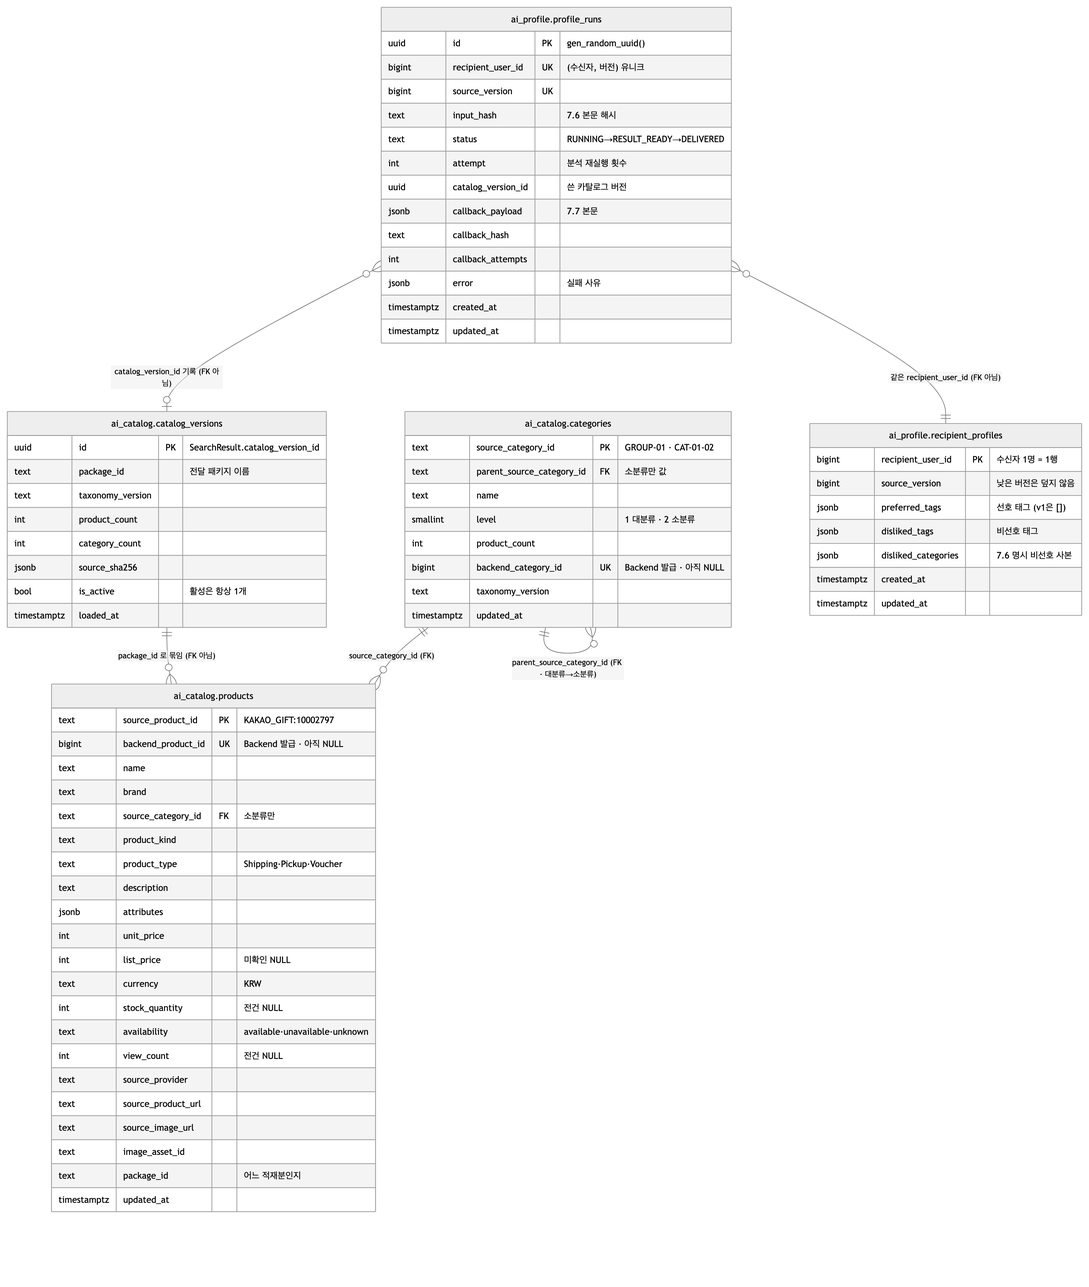
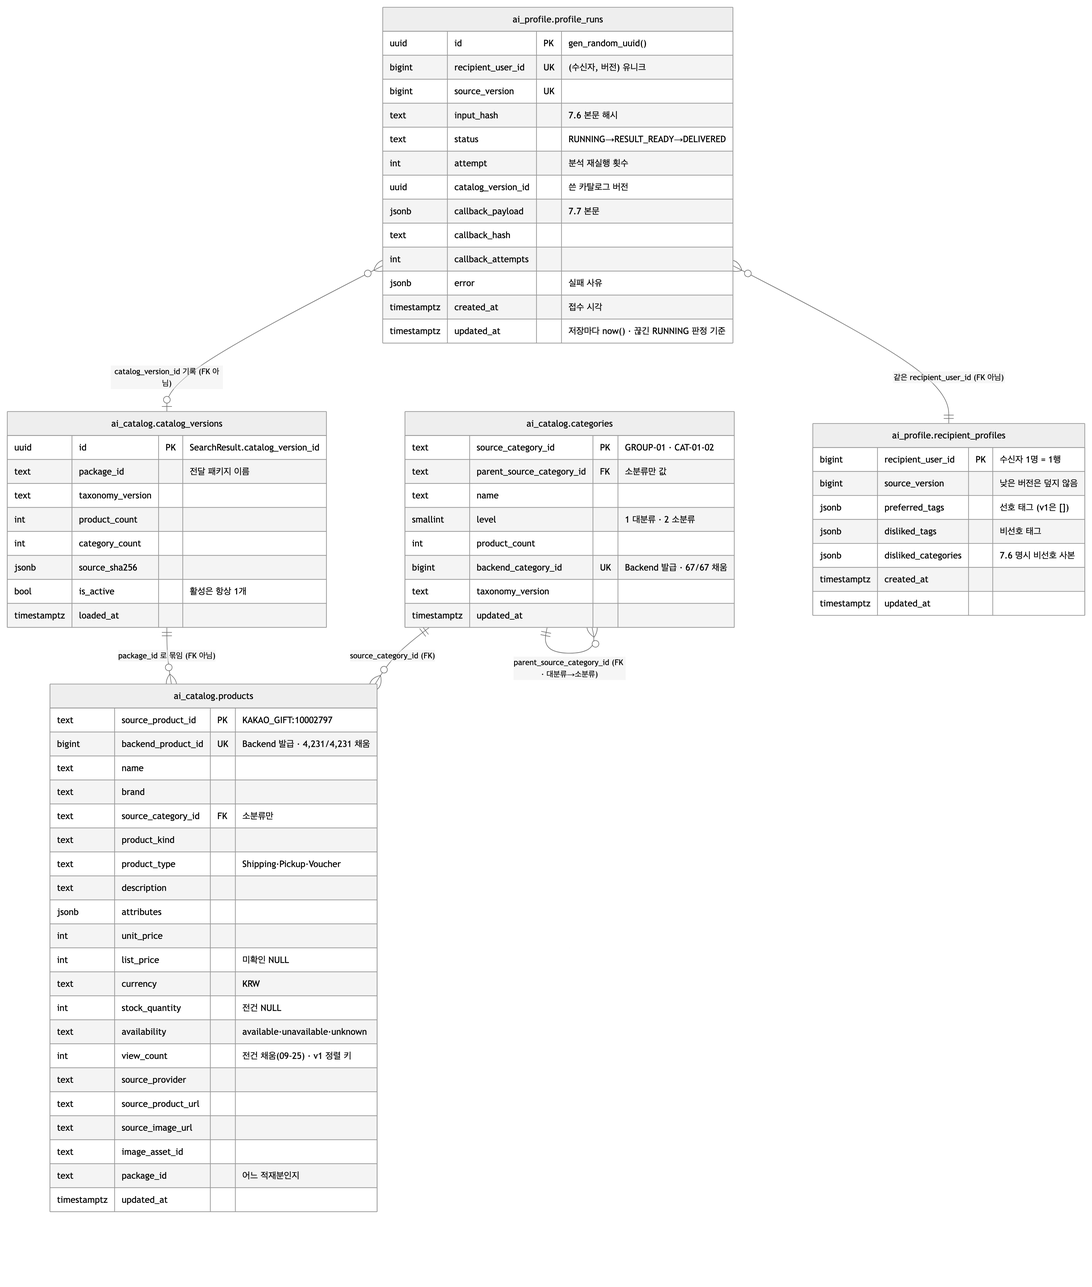
fix(profiling): ERD 점검 ①~⑤ — 0004 열 주석 정정 · updated_at 역할 · 09-25 회신 반영 누락
- 0004_profile_runs_comments: catalog_version_id 주석 ai_search → ai_catalog, updated_at 주석에
  중복 판정·시작 시 정리 기준(RUNNING_STALE_S) 명시. 동작 변경 없음, downgrade 왕복 확인
- DB_ERD.md: categories·products 표에 updated_at 행(①) · profile_runs.updated_at 역할(②) ·
  fig 01 backend_*_id/view_count "아직 NULL" → 채움, §8 채우기 행 정리(⑤) · v3 마이그레이션 0005
- 옛 파일-카탈로그 시험 행 14건(④)은 삭제 대기로 표시 — 삭제는 사용자가 직접 실행
- 통합 시험 +1: 두 열 주석 잠금 (156 passed, 2 skipped) · 문서_목록 §4 ⑤ 기록 · 지도 09-25 §5-6 번호

diff --git a/profiling/alembic/versions/0004_profile_runs_comments.py b/profiling/alembic/versions/0004_profile_runs_comments.py
@@ -1,0 +1,51 @@
+"""0004 — profile_runs 열 주석 정정 (ai_search → ai_catalog · updated_at 의 역할)
+
+Revision ID: 0004
+Revises: 0003
+Create Date: 2026-09-27
+
+동작 변경 없음 — 열 주석(COMMENT ON COLUMN) 두 개만 바꾼다.
+  catalog_version_id  0002 가 쓰일 때 카탈로그는 파일이었고 주석은 팀원 스키마 이름(ai_search)을 가리켰다.
+                      지금 들어가는 값은 ai_catalog.catalog_versions.id (0003) 다. FK 는 여전히 걸지 않는다(감사 기록).
+  updated_at          09-25 접수 단계 중복 판정(intake.decide)과 시작 시 정리(stores.recover_stale_runs)가
+                      이 열을 기준으로 "끊긴 RUNNING"을 가른다(RUNNING_STALE_S). 주석에 그 역할을 남긴다.
+"""
+
+from __future__ import annotations
+
+import sqlalchemy as sa
+from sqlalchemy.dialects import postgresql as pg
+
+from alembic import op
+
+revision = "0004"
+down_revision = "0003"
+branch_labels = None
+depends_on = None
+
+SCHEMA = "ai_profile"
+TABLE = "profile_runs"
+
+CATALOG_OLD = "검색에 쓴 카탈로그 버전 (ai_search.catalog_versions.id) — 감사용, FK 없음 (§16.1). 파일 카탈로그는 고정 UUID"
+CATALOG_NEW = "검색에 쓴 카탈로그 버전 (ai_catalog.catalog_versions.id) — 감사용, FK 없음 (§16.1). 파일 카탈로그는 고정 UUID"
+UPDATED_OLD = "상태가 바뀔 때마다 갱신"
+UPDATED_NEW = ("저장할 때마다 now(). RUNNING 이 RUNNING_STALE_S 보다 오래되면 끊긴 실행으로 본다 — "
+               "접수 단계 중복 판정·시작 시 정리(FAILED)의 기준")
+
+
+def _set_comments(catalog: str, updated: str, *, catalog_was: str, updated_was: str) -> None:
+    op.alter_column(TABLE, "catalog_version_id", schema=SCHEMA,
+                    existing_type=pg.UUID(as_uuid=True), existing_nullable=True,
+                    comment=catalog, existing_comment=catalog_was)
+    op.alter_column(TABLE, "updated_at", schema=SCHEMA,
+                    existing_type=sa.DateTime(timezone=True), existing_nullable=False,
+                    existing_server_default=sa.text("now()"),
+                    comment=updated, existing_comment=updated_was)
+
+
+def upgrade() -> None:
+    _set_comments(CATALOG_NEW, UPDATED_NEW, catalog_was=CATALOG_OLD, updated_was=UPDATED_OLD)
+
+
+def downgrade() -> None:
+    _set_comments(CATALOG_OLD, UPDATED_OLD, catalog_was=CATALOG_NEW, updated_was=UPDATED_NEW)

diff --git a/profiling/tests/integration/test_db_stores.py b/profiling/tests/integration/test_db_stores.py
@@ -285,3 +285,16 @@ def test_run_lock_does_not_leave_transaction_open(engine) -> None:
                 "select count(*) from pg_stat_activity "
                 "where state = 'idle in transaction' and query like '%pg_try_advisory_lock%'")).scalar_one()
     assert open_tx == 0
+
+
+def test_profile_runs_column_comments_match_0004(engine) -> None:
+    """0004 — 열 주석이 실제 값(ai_catalog)과 updated_at 의 역할을 말하는지. 09-27 점검에서 한 번 어긋났던 것이라 잠근다."""
+    with engine.connect() as c:
+        comments = dict(c.execute(sa.text("""
+            select column_name, col_description('ai_profile.profile_runs'::regclass, ordinal_position)
+            from information_schema.columns
+            where table_schema = 'ai_profile' and table_name = 'profile_runs'
+              and column_name in ('catalog_version_id', 'updated_at')""")).all())
+    assert "ai_catalog.catalog_versions.id" in comments["catalog_version_id"]
+    assert "ai_search" not in comments["catalog_version_id"]
+    assert "RUNNING_STALE_S" in comments["updated_at"]

diff --git a/profiling/docs/DB_ERD.md b/profiling/docs/DB_ERD.md
@@ -1,13 +1,13 @@
 # AI DB 표 구조 (ERD) — 2026-09-25
 
-AI가 **소유한** 표가 무엇이고 서로 어떻게 이어지는지. 정본은 `alembic/versions/`의 마이그레이션 세 개이고, 이 문서는 그것을 그림과 표로 옮긴 것이다. 코드가 이 표를 어떻게 쓰는지는 [DB_전환_설명.md](DB_전환_설명.md)와 [시퀀스_전체.md](시퀀스_전체.md)에 있다.
+AI가 **소유한** 표가 무엇이고 서로 어떻게 이어지는지. 정본은 `alembic/versions/`의 마이그레이션 네 개이고, 이 문서는 그것을 그림과 표로 옮긴 것이다. 코드가 이 표를 어떻게 쓰는지는 [DB_전환_설명.md](DB_전환_설명.md)와 [시퀀스_전체.md](시퀀스_전체.md)에 있다.
 
 | | |
 |---|---|
 | DB | PostgreSQL 16 + pgvector (`pgvector/pgvector:pg16`) · 데이터베이스 `ai_chat` · 계정 `ai_user` |
 | 스키마 | `ai_profile`(프로파일링 2표) · `ai_catalog`(카탈로그 3표) · `ai_search`(팀원 검색기 1표, §7) |
-| 마이그레이션 | `0001` recipient_profiles · `0002` profile_runs · `0003` ai_catalog 3표 — `uv run alembic upgrade head` |
-| 행 수 | 2026-09-25 확인: 상품 4,231(Backend 번호·재고·조회수 전건 채움) · 카테고리 67(대분류 10·소분류 57) · 활성 카탈로그 버전 1. `ai_profile` 두 표는 로컬 시험 행뿐 |
+| 마이그레이션 | `0001` recipient_profiles · `0002` profile_runs · `0003` ai_catalog 3표 · `0004` profile_runs 열 주석 정정(동작 변경 없음) — `uv run alembic upgrade head` |
+| 행 수 | 2026-09-25 확인: 상품 4,231(Backend 번호·재고·조회수 전건 채움) · 카테고리 67(대분류 10·소분류 57) · 활성 카탈로그 버전 1. `ai_profile` 두 표는 로컬 시험 행뿐(옛 파일-카탈로그 행 14건 — 삭제 대기, [문서_목록 §4 ⑤](문서_목록.md)) |
 | 절 | 1 한눈에 · 2 `ai_profile` · 3 `ai_catalog` · 4 관계(FK와 FK 아닌 것) · 5 키·인덱스·제약 · 6 바깥 ID 대응 · 7 팀원 표 · 8 아직 없는 것 |
 
 그림은 `docs/assets/erd/`. 이 문서의 mermaid를 고치면 `python3 assets/build_be_sequences.py`를 다시 돌린다 — 그림과 본문이 한 소스다.
@@ -48,8 +48,8 @@ erDiagram
     text callback_hash
     int callback_attempts
     jsonb error "실패 사유"
-    timestamptz created_at
-    timestamptz updated_at
+    timestamptz created_at "접수 시각"
+    timestamptz updated_at "저장마다 now() · 끊긴 RUNNING 판정 기준"
   }
   "ai_catalog.catalog_versions" {
     uuid id PK "SearchResult.catalog_version_id"
@@ -67,13 +67,13 @@ erDiagram
     text name
     smallint level "1 대분류 · 2 소분류"
     int product_count
-    bigint backend_category_id UK "Backend 발급 · 아직 NULL"
+    bigint backend_category_id UK "Backend 발급 · 67/67 채움"
     text taxonomy_version
     timestamptz updated_at
   }
   "ai_catalog.products" {
     text source_product_id PK "KAKAO_GIFT:10002797"
-    bigint backend_product_id UK "Backend 발급 · 아직 NULL"
+    bigint backend_product_id UK "Backend 발급 · 4,231/4,231 채움"
     text name
     text brand
     text source_category_id FK "소분류만"
@@ -86,7 +86,7 @@ erDiagram
     text currency "KRW"
     int stock_quantity "전건 NULL"
     text availability "available·unavailable·unknown"
-    int view_count "전건 NULL"
+    int view_count "전건 채움(09-25) · v1 정렬 키"
     text source_provider
     text source_product_url
     text source_image_url
@@ -137,7 +137,8 @@ erDiagram
 | `callback_hash` | text | NULL | | 위 본문의 sha256 — 재전송이 같은 결과인지 확인 |
 | `callback_attempts` | integer | NOT NULL | `0` | 콜백 시도 횟수 |
 | `error` | jsonb | NULL | | `{code, reason}`. 실패가 아니면 NULL |
-| `created_at` / `updated_at` | timestamptz | NOT NULL | `now()` | |
+| `created_at` | timestamptz | NOT NULL | `now()` | 접수 시각 |
+| `updated_at` | timestamptz | NOT NULL | `now()` | **저장할 때마다 `now()`**. 두 곳이 이 값을 기준으로 삼는다 — (1) 접수 단계 중복 판정: `RUNNING` 행이 `RUNNING_STALE_S`(300초)보다 오래됐으면 끊긴 실행으로 보고 새로 분석한다 (2) 시작 시 정리 `recover_stale_runs`: 같은 기준으로 `FAILED`로 내린다 |
 
 **DB가 지키는 순서 규칙이 하나 있다.** `ck_profile_runs_result_has_payload` — 상태가 `RESULT_READY`·`DELIVERED`·`SUPERSEDED`면 `callback_payload`와 `callback_hash`가 **반드시 있어야 한다**. "보낼 내용 없이 보냈다고 기록된 행"을 만들 수 없다.
 
@@ -149,7 +150,7 @@ stateDiagram-v2
   direction LR
   [*] --> RUNNING : 7.6 접수
   RUNNING --> RESULT_READY : 풀 30개 + 콜백 본문 커밋
-  RUNNING --> FAILED : 카탈로그 없음·저장 실패·업무 오류
+  RUNNING --> FAILED : 카탈로그 없음·저장 실패·업무 오류·시작 시 정리(끊긴 RUNNING)
   RESULT_READY --> DELIVERED : 200
   RESULT_READY --> SUPERSEDED : 409
   RESULT_READY --> FAILED : 4xx
@@ -197,6 +198,7 @@ Backend 전달 패키지(`product-catalog-20260922-v1`)를 `tools/catalog/load_c
 | `product_count` | integer | NOT NULL | 패키지가 선언한 수 |
 | `backend_category_id` | bigint **UNIQUE** | NULL | Backend `categories.id`. **67/67 채움 (09-25 회신)** — 7.6 `dislikedCategories[].categoryId`가 이 값 |
 | `taxonomy_version` | text | NOT NULL | |
+| `updated_at` | timestamptz | NOT NULL `now()` | 적재·회신(`--id-map`)으로 행이 바뀐 시각 |
 
 두 CHECK가 계층을 강제한다 — `level IN (1,2)`, 그리고 `(level = 1) = (parent IS NULL)`(대분류는 부모가 없고 소분류는 반드시 있다).
 
@@ -219,6 +221,7 @@ Backend 전달 패키지(`product-catalog-20260922-v1`)를 `tools/catalog/load_c
 | `source_provider` · `source_product_url` · `source_image_url` | text | NOT NULL | |
 | `image_asset_id` | text | NULL | 변환 이미지 3종 키 |
 | `package_id` | text | NOT NULL | 어느 적재분인지 |
+| `updated_at` | timestamptz | NOT NULL `now()` | 적재·회신(`--id-map`·`--metrics`)으로 행이 바뀐 시각. `DbCatalogReader`가 `ProductRecord.updatedAt`으로 내보낸다 |
 
 **재적재해도 덮지 않는 열이 셋 있다** — `backend_product_id` · `availability` · `view_count`. 각각 Backend 회신(`--id-map` · `--metrics`)이 채우는 자리이므로, 패키지를 다시 넣어도 UPSERT가 건드리지 않는다.
 
@@ -242,7 +245,7 @@ Backend 전달 패키지(`product-catalog-20260922-v1`)를 `tools/catalog/load_c
 | `profile_runs.recipient_user_id → recipient_profiles.recipient_user_id` | 둘 다 **Backend의 사용자 번호**를 그대로 쓴다. 실행은 남았는데 프로필이 아직 없을 수 있어(FAILED) 부모–자식 관계가 아니다 |
 | `*.backend_*_id → Backend` | 다른 DB다. 대조는 `tools/catalog/fetch_export.py --compare-db` |
 
-> **문서와 다른 곳 하나.** `0002`의 `catalog_version_id` 열 주석이 아직 `ai_search.catalog_versions.id`라고 되어 있다. 실제 들어가는 값은 `ai_catalog.catalog_versions.id`(또는 파일 카탈로그의 고정 UUID)다. 동작에는 영향이 없지만 주석은 고쳐야 한다.
+> `0002`의 `catalog_version_id` 열 주석은 `ai_search.catalog_versions.id`라고 되어 있었다 — `0004`가 `ai_catalog.catalog_versions.id`로 고쳤다(동작 변경 없음).
 
 ---
 
@@ -286,9 +289,8 @@ Backend 전달 패키지(`product-catalog-20260922-v1`)를 `tools/catalog/load_c
 
 | 무엇 | 언제 | 어디 |
 |---|---|---|
-| `recipient_profiles`에 `profile_run_id`(FK) · `axes` · `recommended_product_ids` · `catalog_version_id` · `prompt_version` · `validator_version` | v3 — 설계서 §1.7의 나머지 열 | 새 마이그레이션 `0004` |
+| `recipient_profiles`에 `profile_run_id`(FK) · `axes` · `recommended_product_ids` · `catalog_version_id` · `prompt_version` · `validator_version` | v3 — 설계서 §1.7의 나머지 열 | 새 마이그레이션 `0005` |
 | 임베딩 표 (pgvector) | v2·v3 | `vector` 확장은 `0001`에서 이미 켜 두었다 |
-| `backend_*_id` 채우기 | Backend 회신 즉시 | `load_catalog --id-map` (코드는 이미 있다) |
-| `availability`·`view_count` 채우기 | Backend 7.9 export | `tools/catalog/fetch_export.py` |
+| `backend_*_id`·`availability`·`view_count` **다시** 채우기 | 다음 Backend 회신 때 | 09-25 회신은 반영 끝(xlsx → `--id-map`·`--metrics`). 7.9 export 자동 경로 `tools/catalog/fetch_export.py`는 아직 안 씀 |
 
-마이그레이션 번호는 `0003`까지 썼다. **v3 마이그레이션은 `0004`다** — `0003`은 카탈로그가 쓰고 있다.
+마이그레이션 번호는 `0004`까지 썼다. **v3 마이그레이션은 `0005`다** — `0003`은 카탈로그, `0004`는 열 주석 정정이 쓰고 있다.

diff --git a/profiling/README.md b/profiling/README.md
@@ -6,7 +6,7 @@ Backend가 수신자의 비선호 카테고리·취향 문장·최근 리뷰를 
 |---|---|
 | 동작 범위 | **v1** — 비선호 카테고리만 반영해 7.6 → 202 → 7.7까지 끝까지 동작. 취향·리뷰를 읽는 모델·검증기 단계는 v3 |
 | 저장소 | **PostgreSQL 하나뿐** — `ai_profile.profile_runs`(실행 기록) · `ai_profile.recipient_profiles`(수신자 프로필). 메모리 구현은 09-23에 제거했고 DB 없이 띄우는 모드는 없다. 카탈로그는 아직 파일. 전환 설명: [docs/DB_전환_설명.md](docs/DB_전환_설명.md) |
-| 테스트 | 단위 115개(외부 의존 없음) + 통합 42개(진짜 PostgreSQL, 꺼져 있으면 skip) — `uv run pytest -q` → 155 passed, 2 skipped |
+| 테스트 | 단위 115개(외부 의존 없음) + 통합 43개(진짜 PostgreSQL, 꺼져 있으면 skip) — `uv run pytest -q` → 156 passed, 2 skipped |
 | 담당 | Profile · Catalog · DB adapter · Embedding adapter. Chat·Search·Runtime·Model adapter는 팀원. 합칠 때 라우터·adapter만 옮긴다 |
 
 ---
@@ -31,7 +31,7 @@ Backend가 수신자의 비선호 카테고리·취향 문장·최근 리뷰를 
 | `tests/fixtures/catalog_sample.json` | 예시 카탈로그 111건 · 56카테고리 (7.9 형식) |
 | `tests/unit/` | 가짜 구현 · `httpx.MockTransport` — DB·네트워크 없이 돈다 |
 | `tests/integration/` | 진짜 PostgreSQL — 마이그레이션 결과 · upsert · 상태 규칙 · 앱 e2e. DB 꺼져 있으면 skip |
-| `alembic/versions/` | `0001` recipient_profiles(수신자 프로필) · `0002` profile_runs(실행 기록) · `0003` ai_catalog(상품·카테고리·적재 버전) |
+| `alembic/versions/` | `0001` recipient_profiles(수신자 프로필) · `0002` profile_runs(실행 기록) · `0003` ai_catalog(상품·카테고리·적재 버전) · `0004` profile_runs 열 주석 정정(동작 변경 없음) |
 | `docker-compose.yml` | `ai-db`(pgvector/pg16 · `ai_chat` · 5432) · `ai-migrate`(alembic 한 번) · `ai-app`(:8000) |
 | `Dockerfile` · `.dockerignore` | 앱 이미지 — python 3.12-slim + uv(`uv.lock` 그대로) · 비루트(uid 10001) · 시험·문서는 넣지 않는다 |
 | [docs/코드_안내서.md](docs/코드_안내서.md) | 파일·함수별 역할 (처음 보는 사람용) · 시퀀스 |
@@ -94,8 +94,8 @@ cd profiling
 uv sync                                     # .venv + 의존성 (uv.lock 기준)
 cp .env.example .env                        # 필요 시 값 수정
 docker compose up -d                        # 로컬 PostgreSQL (Docker Desktop 켜져 있어야 함)
-uv run alembic upgrade head                 # 테이블 생성 (0001~0003)
-uv run pytest -q                            # 155 passed, 2 skipped (DB 꺼져 있으면 통합 42개 skip)
+uv run alembic upgrade head                 # 테이블 생성 (0001~0004)
+uv run pytest -q                            # 156 passed, 2 skipped (DB 꺼져 있으면 통합 43개 skip)
 uv run ruff check src tests tools alembic   # lint
 ```
 
@@ -193,7 +193,7 @@ docker compose exec ai-db psql -U ai_user -d ai_chat -c "select recipient_user_i
 | `integration/test_db_catalog.py` | 마이그레이션 0003 + 적재 SQL | 표·CHECK·활성 버전 1개 · 재적재 멱등 · Backend ID/재고 보존 · `--id-map` 회신 반영 | 7 |
 | `integration/test_db_catalog_reader.py` | `DbCatalogReader` | 활성 버전 읽기·필드 매핑 · 같은 버전이면 재질의 없음 · Backend 번호 우선/임시 번호 · 번호 충돌 거부 · 활성 없음 · **버전과 상품이 한 스냅샷에서 나오는지** | 7 |
 | `integration/test_db_recipient_profiles.py` | 마이그레이션 결과 | 열 순서·PK 시퀀스 없음·유니크·CHECK·upsert 버전 규칙 | 5 |
-| `integration/test_db_stores.py` | `DbProfileRunStore`·`DbRecipientProfileStore`·**앱 전체** | RUNNING→RESULT_READY→DELIVERED·재실행 attempt·최신 버전·버전 가드·삭제·error{code,reason} · `pipeline.profile()` → 두 테이블 · 7.6 → DB에 DELIVERED | 13 |
+| `integration/test_db_stores.py` | `DbProfileRunStore`·`DbRecipientProfileStore`·**앱 전체** | RUNNING→RESULT_READY→DELIVERED·재실행 attempt·최신 버전·버전 가드·삭제·error{code,reason} · `pipeline.profile()` → 두 테이블 · 7.6 → DB에 DELIVERED · 0004 열 주석 | 14 |
 | `integration/test_e2e_app.py` | **끝에서 끝** | `TestClient(app)` — lifespan(진짜 DB) → 7.6 202 → Supervisor 슬롯 → 가짜 BackendPort가 7.7 받음 → `profile_runs` DELIVERED·`recipient_profiles` upsert. 400은 백그라운드로 안 감. 모르는 필드 경고. `/health`. **배포 모양(`CATALOG_SOURCE=db`)으로 기동** | 6 |
 | `integration/test_fetch_export_db.py` | `--compare-db` | 팀원 DDL로 `ai_search.products` 만들어 TEXT id·누락·이름 차이 보고 | 2 |
 | `test_backend.py::test_callback_path_matches_fake_backend` | 계약 문자열 | AI 송신 경로 == fake 수신 경로 | (포함) |

diff --git a/profiling/docs/파이프라인_지도/2026-09-25.md b/profiling/docs/파이프라인_지도/2026-09-25.md
@@ -6,7 +6,7 @@
 | 범위 | **v1** — 비선호 카테고리만 반영. 취향 문장·리뷰를 읽는 모델·검증기는 v3 |
 | 동작 | 7.6 접수 → **중복 판정** → 202 → 백그라운드 → 재고 없음·비선호 제외 → 조회수순 30개 → 7.7 콜백 → 결과를 DB에 기록 |
 | 저장소 | PostgreSQL — `ai_profile`(실행 기록·수신자 프로필) · `ai_catalog`(카탈로그 4,231건, **Backend 번호·재고·조회수 전건 채움**). 표 구조는 [DB_ERD.md](../DB_ERD.md) |
-| 테스트 | `uv run pytest -q` → **155 passed, 2 skipped**. 단위 115(DB 없이) · 통합 42(진짜 PostgreSQL) |
+| 테스트 | `uv run pytest -q` → **156 passed, 2 skipped**. 단위 115(DB 없이) · 통합 43(진짜 PostgreSQL) |
 | 지난 판 | [2026-09-23.md](2026-09-23.md) |
 
 ![파이프라인 지도 2026-09-25](assets/pipeline-map_2026-09-25.png)
@@ -53,7 +53,7 @@
 cd profiling && docker compose up -d && uv run alembic upgrade head
 ```
 
-- `uv run pytest -q` → **155 passed, 2 skipped**
+- `uv run pytest -q` → **156 passed, 2 skipped**
 - 단위가 DB 없이 도는지: `PROFILING_DATABASE_URL="postgresql+psycopg://x:x@127.0.0.1:1/none" uv run pytest tests/unit -q` → 108 passed, 2 skipped
 - 통합이 DB 없으면 건너뛰는지: 같은 환경변수로 `uv run pytest tests/integration -q` → 34 skipped
 - `uv run ruff check src tests tools alembic` → `All checks passed!`
@@ -81,7 +81,7 @@ cd profiling && docker compose up -d && uv run alembic upgrade head
 | 3 | **콜백 재시도(5xx 최대 3회)** — 재시작 복구는 09-26 완료 | 지금은 1회 전송 후 `RESULT_READY`로 남긴다(그 수는 `/health.store.undelivered`) | `backend.send_profile_callback()` 안 재시도·백오프 | 5xx 3회 후 종료 시험 | 반나절 |
 | 4 | 팀원 레이아웃으로 합치기 (uv 단일 pyproject, 루트 `app/`) | 09-21 보류 결정. 배포 전 필요 | `src/profiling/*` → `app/profiling/*` | 합친 트리에서 `uv run pytest -q` 그대로 통과 | 반나절 |
 | 5 | 필드표 v1 §6(AI 오류 코드 부록) 작성 | 목차에 있는데 본문이 없다 | `docs/BE_연동_필드표_v1.md` · `types.ErrorCode` | 코드 값과 문서가 1:1 | 한 시간 |
-| 6 | v3 — 마이그레이션 `0004` · 검증기 이식 · `ProfileModel` · Search 호출 | 취향·리뷰 반영 | `alembic/versions/0004_*.py` · `pipeline.profile()` 2단계 · `model.py` 신설 | 실험 하네스와 같은 결과 · skip 2개 해제 | 여러 날 |
+| 6 | v3 — 마이그레이션 `0005` · 검증기 이식 · `ProfileModel` · Search 호출 | 취향·리뷰 반영 | `alembic/versions/0005_*.py`(`0004`는 09-27 열 주석 정정) · `pipeline.profile()` 2단계 · `model.py` 신설 | 실험 하네스와 같은 결과 · skip 2개 해제 | 여러 날 |
 | 7 | 독스트링의 설계 근거를 `docs/`로 이관 | 코드의 27%가 설명문 | `ports.py`·`stores.py`·`pipeline.py` | 주석 비율 10% 이하 | 반나절 |
 | 8 | 동시성 — Supervisor 세마포어가 anyio 스레드풀을 붙잡는 문제 | 슬롯 대기 중 스레드 점유 | `supervisor.py` · `intake.py` | 동시 100건에서 `/health` p50 유지 | 반나절 |
 

diff --git a/profiling/docs/문서_목록.md b/profiling/docs/문서_목록.md
@@ -75,7 +75,7 @@ README 에서 링크를 따라 닿는 순서. 같은 문서는 처음 나온 자
 | [../tools/catalog/returned/2026-09-25/README.md](../tools/catalog/returned/2026-09-25/README.md) | Backend 회신(xlsx 2종)을 어떻게 이었나 | ✅ |
 | [issues/](issues/) | **발견한 문제 기록** — 발견 시각별 폴더(문서 + 그림). 이슈·트러블슈팅으로 그대로 옮긴다. 규칙은 그 폴더 README | ✅ |
 
-## 4. 이번 점검에서 나온 것 — **넷 다 고쳤다 (2026-09-26)**
+## 4. 점검에서 나온 것 — **09-26 넷 · 09-27 ERD 다섯 (④ 시험 행 삭제만 실행 대기)**
 
 무엇이 어떻게 틀렸었는지 남긴다. 같은 실수를 다시 찾을 때 기준이 된다.
 
@@ -113,6 +113,16 @@ README 에서 링크를 따라 닿는 순서. 같은 문서는 처음 나온 자
 | `assets/v1-flow.png` | `코드_안내서.md` | 09-23 | 접수 단계 **중복 판정(`decide`)이 없음** · `catalog.py (파일)` · 조립 설명이 파일 카탈로그 전제 |
 
 고치면서 상자 밖으로 넘치는 글자 네 곳(상자 제목 2 · 메서드 줄 1 · `availability` 1)과 상자 겹침 한 곳을 같이 잡았다. 나머지 그림은 소스(md·py)를 고칠 때마다 다시 그려서 맞다 — `assets/seq/`(6) · `assets/erd/`(2) · `assets/be-seq/v1|v2|v3`(9) · `assets/pipeline-map.png` · `파이프라인_지도/assets/`(날짜 스냅샷 3).
+
+### ⑤ `DB_ERD.md` 두 번째 점검 (2026-09-27) — 고침
+
+| 위치 | 적힌 값 | 실제 |
+|---|---|---|
+| §3.2 · §3.3 표 | `updated_at` 행 없음 (그림에는 있음) | 0003 두 표 모두 있고 적재·회신이 갱신한다. `products.updated_at`은 `ProductRecord.updatedAt`으로 나간다 |
+| §2.2 `updated_at` | 뜻 빈칸 | 저장마다 `now()` — 접수 단계 중복 판정(`RUNNING_STALE_S`)과 시작 시 정리의 기준. 09-25에 역할이 생겼는데 문서를 안 고쳤다 |
+| 0002 열 주석 `catalog_version_id` | `ai_search.catalog_versions.id` | `ai_catalog.catalog_versions.id` — 마이그레이션 `0004`로 정정(주석만), v3는 `0005` |
+| 로컬 DB `ai_profile` | 옛 파일-카탈로그 시험 행 14건(09-22~23, UUID `…0001`) | 삭제 대상 (`profile_runs` 9 · `recipient_profiles` 5) — 삭제는 사용자가 직접 실행한다 |
+| fig 01 · §8 | `backend_*_id` "아직 NULL" · `view_count` "전건 NULL" · §8 "아직 없는 것"에 채우기 | 09-25 회신으로 전건 채움 — 09-26 ②에서 표만 고치고 그림·§8을 빠뜨렸다 |
 
 ## 5. 점검 방법 (다음에 또 할 때)
 
